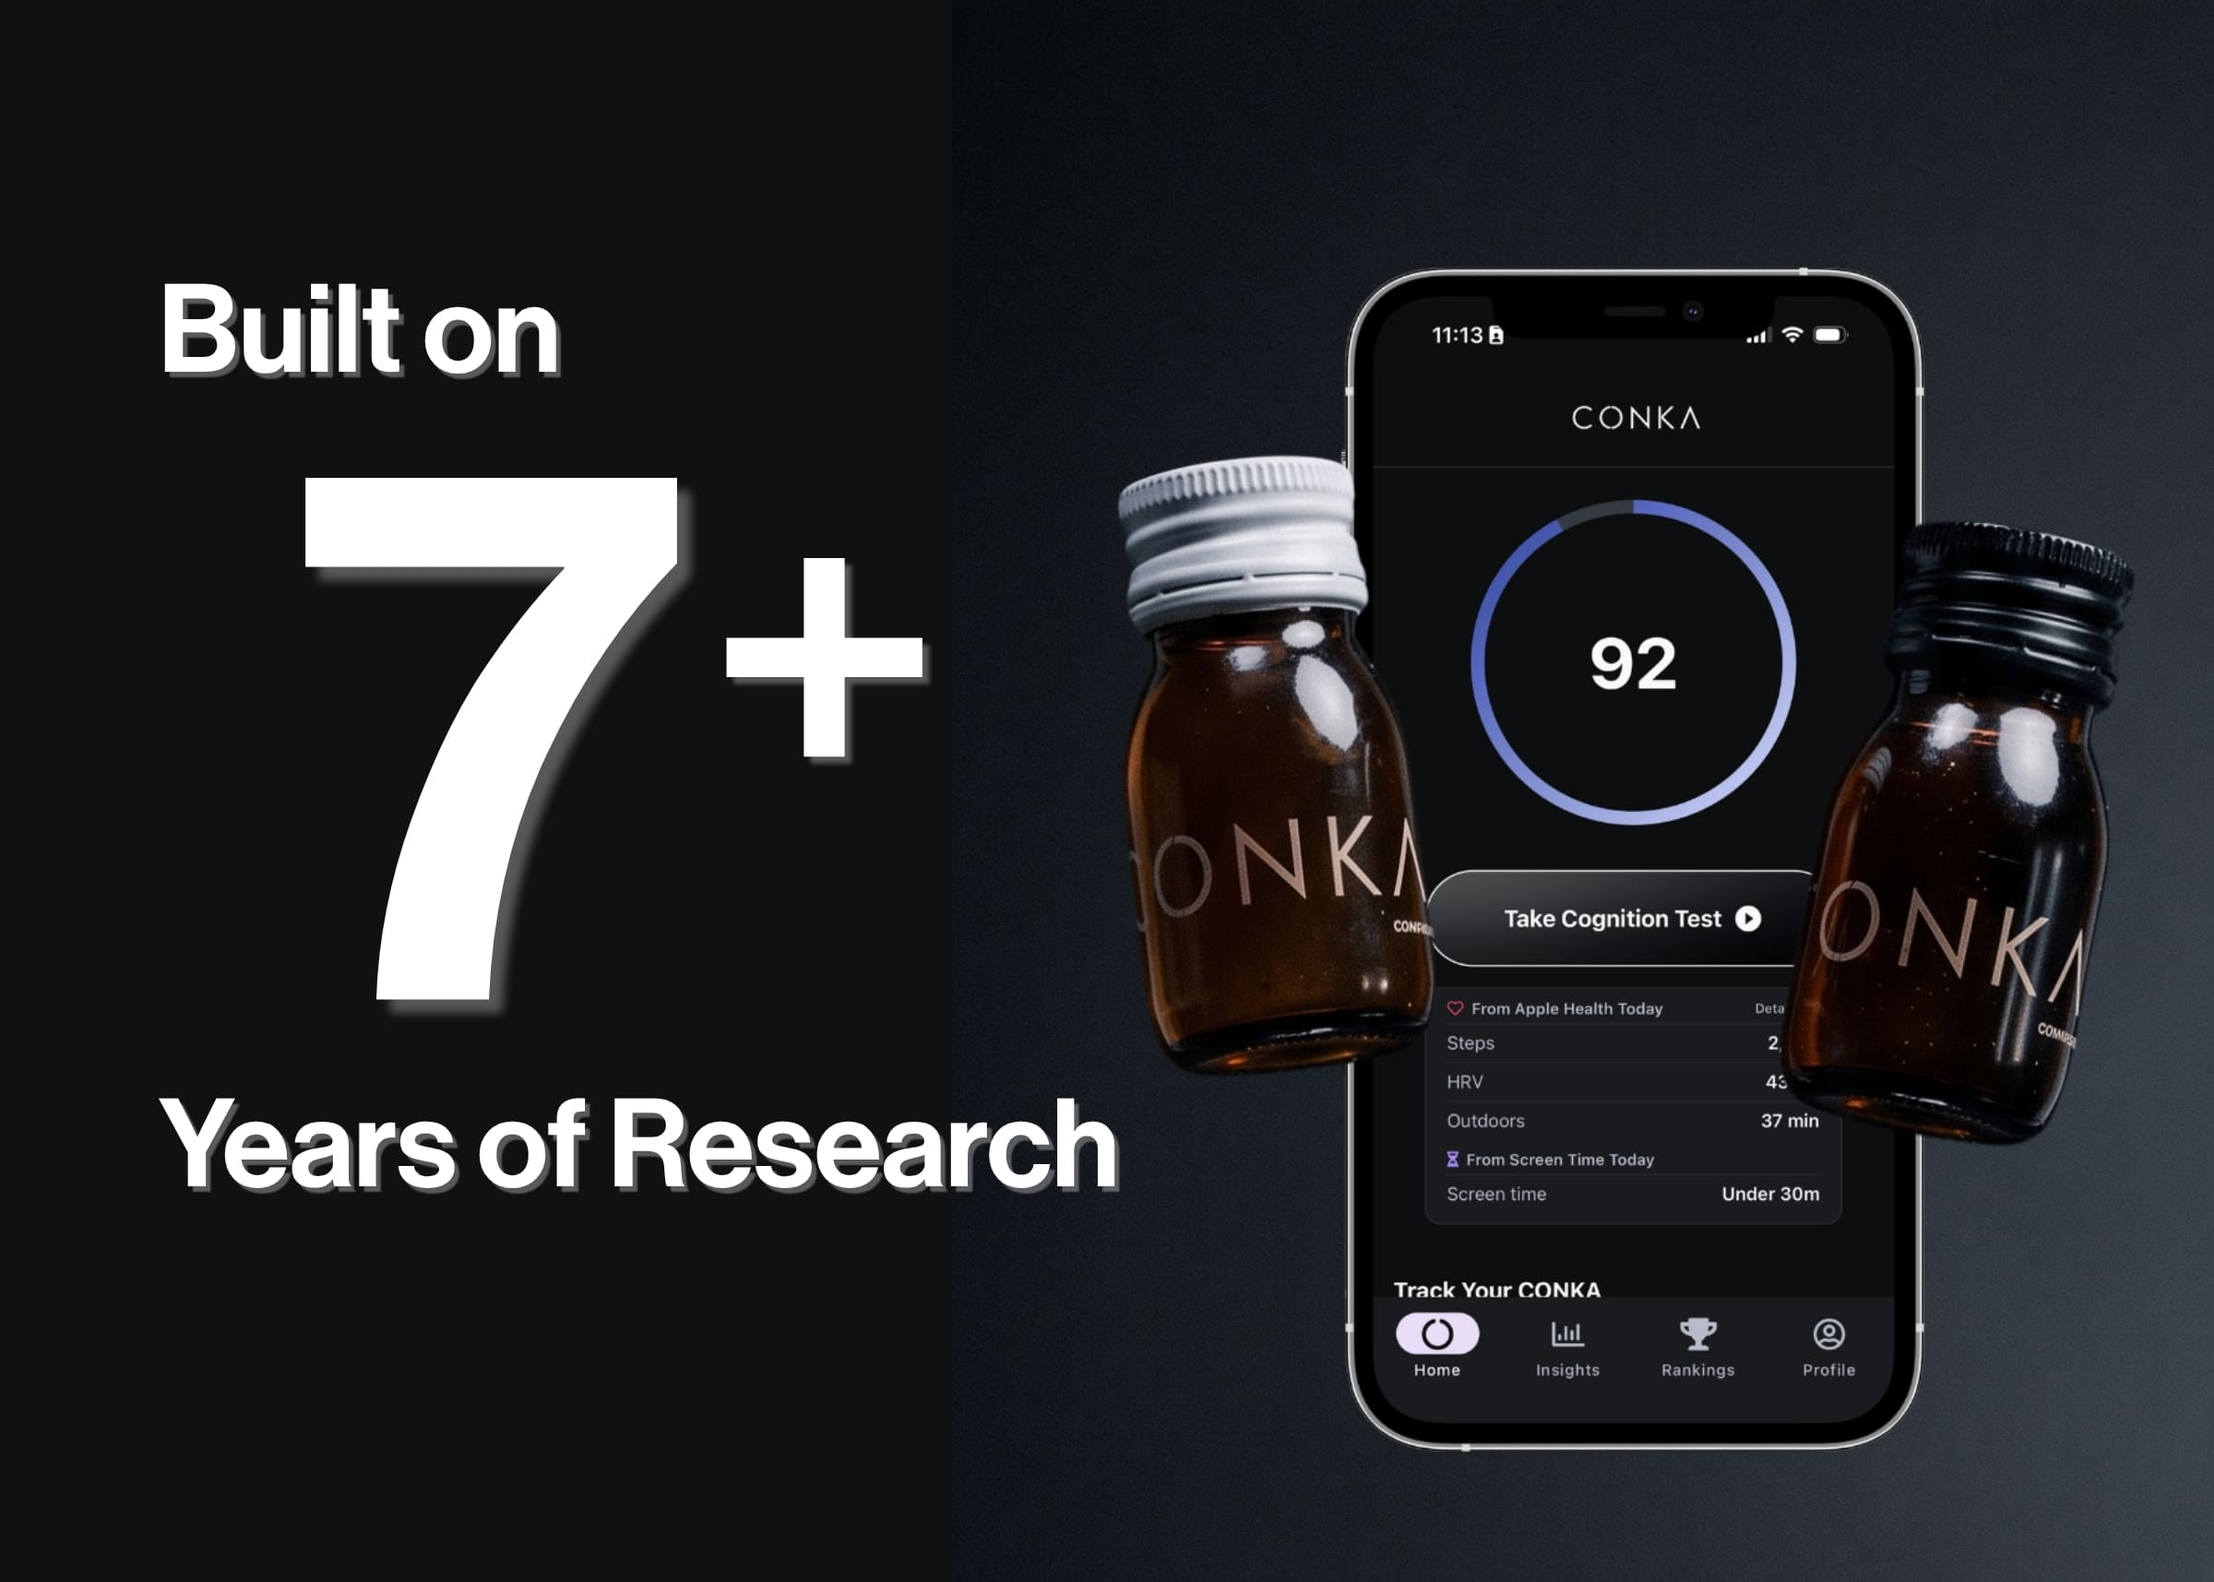
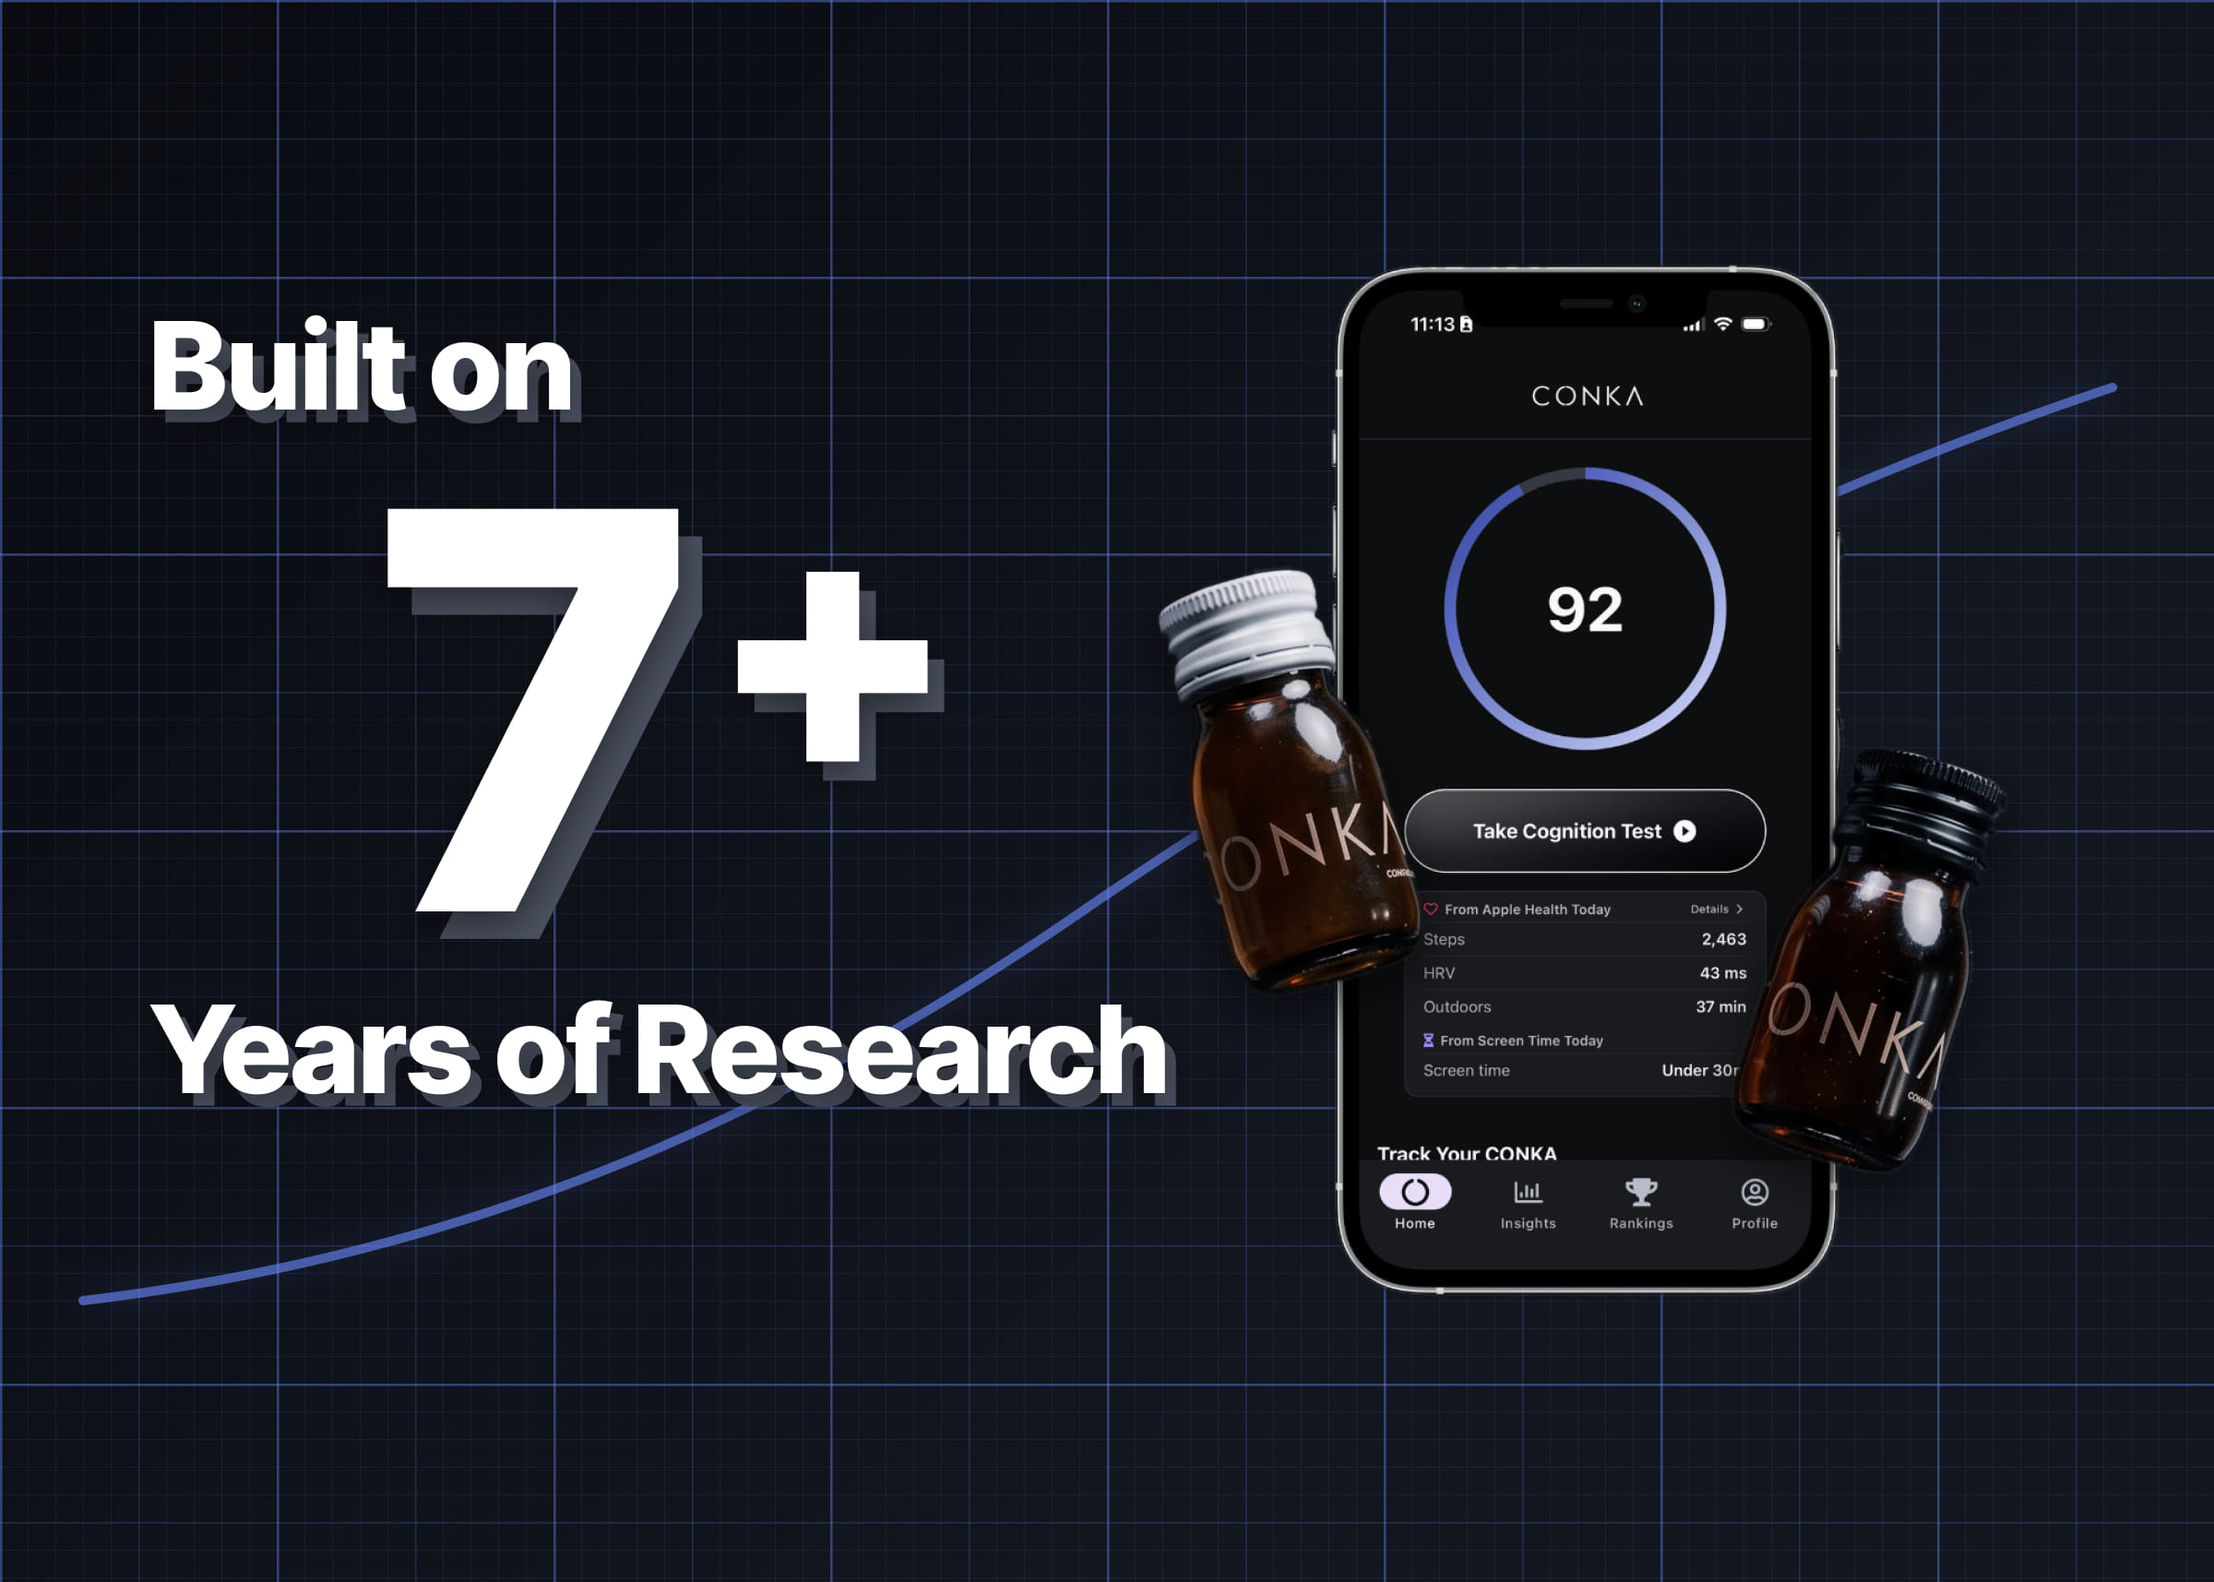
feat: regenerate PDP statics from Figma, add Clear and Both starter packs
Replaces five PDP gallery statics with new Figma artwork and fills in the
two products the starter pack never had.

Assets, all exported at 2400x1715 to match the rest of mmPdpAssets and
encoded with mozjpeg at q80 / 4:4:4 (the grid and the price chips are
high-frequency detail that chroma subsampling smears):

- RiskFreeTrial.jpg / ClearRiskFree.jpg: new 28-box shots carrying the
  100 day guarantee
- SevenYearsResearch.jpg: rebuilt from the Nike deck assets, on a graph
  paper grid with a rising trajectory
- Flow{,Quarterly}StarterPack.jpg: relabelled, and now full resolution
  rather than the 1200x857 originals
- Clear/Both {,Quarterly}StarterPack.jpg: new, same callout system

Wiring:

- offerData: starterPackImage on the clear and both subscription
  cadences, so the PDP starter-kit section lights up on all three
  products rather than Flow alone
- mmPdpData: "02" and "03" now lead with their pack shot the way "01"
  already did, which is also what getPdpGalleryImages needs in slot 0
- StarterPackContents: the shots row was hardcoded to "CONKA Flow", so
  it takes a productLabel prop; intrinsic size corrected to the real
  2400x1715

Every figure on the new pack artwork was checked against offerData:
Both is 16 free shots at GBP 47.99 monthly and 20 at GBP 59.99
quarterly, against GBP 129.97 -> 74.99 and GBP 389.91 -> 149.99.

Claude-Session: https://claude.ai/code/session_01L8AF38X8qiPyPR3Vpp7w55

diff --git a/app/components/product/StarterPackContents.tsx b/app/components/product/StarterPackContents.tsx
@@ -3,18 +3,18 @@ import { formatPrice } from "@/app/lib/productData";
 import type { CadencePricing } from "@/app/lib/cadenceData";
 
 /**
- * StarterPackContents — the full-width starter-pack section on the Flow PDP
- * (SCRUM-1287, plan Phase 4).
+ * StarterPackContents — the full-width starter-pack section on the Flow, Clear
+ * and Both PDPs (SCRUM-1287, plan Phase 4).
  *
  * The buy panel already carries GiftValueStack, a compact tile grid. This is the
  * unpack: the arranged pack shot with the contents priced beside it, so a first
  * order reads as a kit rather than a carton. Both surfaces derive from the same
  * CadencePricing fields, so their figures cannot drift apart.
  *
- * Cadence-aware. `starterPackImage` is set on the two Flow subscription cadences
- * only, so it doubles as the visibility switch: the page renders no section at
- * all when the selected cadence has no pack. The monthly and quarterly shots are
- * the same dimensions, so switching cadence swaps the image with no layout shift.
+ * Cadence-aware. `starterPackImage` is set on the subscription cadences only, so
+ * it doubles as the visibility switch: the page renders no section at all when
+ * the selected cadence has no pack. Every pack shot is the same dimensions, so
+ * switching cadence or formula swaps the image with no layout shift.
  *
  * Every price here is display-only and pre-add. The cart and the checkout still
  * price from Shopify alone (CART_PRICING_SOURCE_OF_TRUTH.md).
@@ -35,14 +35,14 @@ type PackRow = {
   paidPrice?: number;
 };
 
-function getPackRows(pricing: CadencePricing): PackRow[] {
+function getPackRows(pricing: CadencePricing, productLabel: string): PackRow[] {
   const freeShots = pricing.freeShots ?? 0;
   const freeShotsValue = pricing.freeShotsValue ?? 0;
 
   return [
     {
-      id: "flow",
-      label: `CONKA Flow, ${pricing.shotCount} shots`,
+      id: "shots",
+      label: `${productLabel}, ${pricing.shotCount} shots`,
       rrp: pricing.compareAtPrice ?? pricing.price,
       paidPrice: pricing.price,
     },
@@ -87,12 +87,15 @@ function Tick() {
 
 export default function StarterPackContents({
   pricing,
+  productLabel,
 }: {
   pricing: CadencePricing;
+  /** What the shots row is called, e.g. "CONKA Flow" or "CONKA Flow + Clear". */
+  productLabel: string;
 }) {
   if (!pricing.starterPackImage) return null;
 
-  const rows = getPackRows(pricing);
+  const rows = getPackRows(pricing, productLabel);
   const totalValue = rows.reduce((sum, row) => sum + row.rrp, 0);
 
   return (
@@ -115,8 +118,8 @@ export default function StarterPackContents({
           alt={`Everything in the starter kit: ${rows
             .map((row) => row.label)
             .join(", ")}`}
-          width={1200}
-          height={857}
+          width={2400}
+          height={1715}
           className="h-auto w-full rounded-lg"
           sizes="(min-width: 1024px) 50vw, 100vw"
         />

diff --git a/app/lib/mmPdpData.ts b/app/lib/mmPdpData.ts
@@ -19,7 +19,8 @@ const ASSET_BASE = "/formulas/mmPdpAssets";
 export const MM_GALLERY_ASSETS: Record<ProductHeroId, string[]> = {
   "01": [
     // Starter pack bundle shot leads: the whole offer (box, shots, hat, travel
-    // pack, app) is visible before any copy is read. SCRUM-1282.
+    // pack, app) is visible before any copy is read. SCRUM-1282. All three
+    // formulas lead this way, each with its own pack artwork.
     // Lives under starterPack/ rather than ASSET_BASE so the hero, the PDP
     // starter-pack section and ByoGallery all request one URL and share its
     // optimised variants. getPdpGalleryImages swaps this slide per cadence.
@@ -34,6 +35,7 @@ export const MM_GALLERY_ASSETS: Record<ProductHeroId, string[]> = {
     `${ASSET_BASE}/RiskFreeTrial.jpg`,
   ],
   "02": [
+    "/formulas/starterPack/ClearStarterPack.jpg",
     `${ASSET_BASE}/ClearMmHero.jpg`,
     `${ASSET_BASE}/ClearSharperMind.jpg`,
     `${ASSET_BASE}/ClearMmIngredients.jpg`,
@@ -44,6 +46,7 @@ export const MM_GALLERY_ASSETS: Record<ProductHeroId, string[]> = {
     `${ASSET_BASE}/ClearRiskFree.jpg`,
   ],
   "03": [
+    "/formulas/starterPack/BothStarterPack.jpg",
     `${ASSET_BASE}/BothMmHero.jpg`,
     `${ASSET_BASE}/BothSharperMind.jpg`,
     `${ASSET_BASE}/FlowMmIngredients.jpg`,
@@ -60,11 +63,12 @@ export const MM_GALLERY_ASSETS: Record<ProductHeroId, string[]> = {
  * Gallery slides for a PDP hero, with the lead slide following the selected
  * plan (SCRUM-1287).
  *
- * Flow's first slide is the starter-pack shot, and that artwork carries the
- * pack's prices and quantities. Left static it showed the monthly pack above a
- * quarterly price. Cadences that ship a pack expose `starterPackImage`, so the
- * lead slide is swapped for whichever pack the selected plan actually gets, and
- * the section further down the page reads the same field.
+ * Every formula's first slide is its starter-pack shot, and that artwork
+ * carries the pack's prices and quantities. Left static it showed the monthly
+ * pack above a quarterly price. Cadences that ship a pack expose
+ * `starterPackImage`, so the lead slide is swapped for whichever pack the
+ * selected plan actually gets, and the section further down the page reads the
+ * same field.
  *
  * Cadences with no pack keep the array as authored.
  */

diff --git a/app/lib/offerData.ts b/app/lib/offerData.ts
@@ -287,6 +287,7 @@ const OFFER_PRICING: Record<OfferProduct, Record<OfferCadence, OfferPricing>> = 
       subsequentShots: 40,
       freeShotsValue: 47.99,
       gifts: STARTER_PACK_GIFTS,
+      starterPackImage: "/formulas/starterPack/BothStarterPack.jpg",
     },
     "monthly-otp": {
       price: OTP_PRICE.both,
@@ -309,6 +310,7 @@ const OFFER_PRICING: Record<OfferProduct, Record<OfferCadence, OfferPricing>> = 
       subsequentShots: 140,
       freeShotsValue: 59.99,
       gifts: STARTER_PACK_GIFTS,
+      starterPackImage: "/formulas/starterPack/BothQuarterlyStarterPack.jpg",
     },
     "quarterly-otp": {
       // + postage = the £279.99 BOTH-120 charges. Same £2.25/shot as monthly one-time.
@@ -381,6 +383,7 @@ const OFFER_PRICING: Record<OfferProduct, Record<OfferCadence, OfferPricing>> = 
       subsequentShots: 20,
       freeShotsValue: 23.99,
       gifts: STARTER_PACK_GIFTS,
+      starterPackImage: "/formulas/starterPack/ClearStarterPack.jpg",
     },
     "monthly-otp": {
       price: OTP_PRICE.clear,
@@ -401,6 +404,7 @@ const OFFER_PRICING: Record<OfferProduct, Record<OfferCadence, OfferPricing>> = 
       subsequentShots: 80,
       freeShotsValue: 59.99,
       gifts: STARTER_PACK_GIFTS,
+      starterPackImage: "/formulas/starterPack/ClearQuarterlyStarterPack.jpg",
     },
     "quarterly-otp": {
       // + postage = the £189.99 CLEAR-60 charges. Same £3.00/shot as monthly one-time.

diff --git a/app/conka-both/page.tsx b/app/conka-both/page.tsx
@@ -118,7 +118,10 @@ export default function ConkaBothPage() {
       ariaLabel="What is in the starter pack"
     >
       <div className="brand-track">
-        <StarterPackContents pricing={cadencePricing} />
+        <StarterPackContents
+          pricing={cadencePricing}
+          productLabel="CONKA Flow + Clear"
+        />
       </div>
     </PdpSection>
   ) : null;

diff --git a/app/conka-clarity/page.tsx b/app/conka-clarity/page.tsx
@@ -112,7 +112,10 @@ export default function ConkaClarityPage() {
       ariaLabel="What is in the starter pack"
     >
       <div className="brand-track">
-        <StarterPackContents pricing={cadencePricing} />
+        <StarterPackContents
+          pricing={cadencePricing}
+          productLabel="CONKA Clear"
+        />
       </div>
     </PdpSection>
   ) : null;

diff --git a/app/conka-flow/page.tsx b/app/conka-flow/page.tsx
@@ -109,7 +109,10 @@ export default function ConkaFlowPage() {
       ariaLabel="What is in the starter pack"
     >
       <div className="brand-track">
-        <StarterPackContents pricing={cadencePricing} />
+        <StarterPackContents
+          pricing={cadencePricing}
+          productLabel="CONKA Flow"
+        />
       </div>
     </PdpSection>
   ) : null;

diff --git a/docs/product/PRODUCT_DATA.md b/docs/product/PRODUCT_DATA.md
@@ -158,15 +158,15 @@ Shot counts are **priced** shots. Monthly subs ship a bonus box on the first ord
 
 `OfferPricing.gifts` is an optional `OfferGift[]` listing the free extras that come with a first order. It drives the `GiftValueStack` struck-RRP rows on the PDP buy panel and is **display only**: these RRPs never reach a cart line or the checkout, per [CART_PRICING_SOURCE_OF_TRUTH.md](../development/CART_PRICING_SOURCE_OF_TRUTH.md).
 
-Set on `flow["monthly-sub"]` and `flow["quarterly-sub"]`. Presence of `gifts` is what gates the stack, so adding it to another cadence is all that is needed to extend the offer.
+Set on the `monthly-sub` and `quarterly-sub` cadences of all three products (`flow`, `clear`, `both`). Presence of `gifts` is what gates the stack, so adding it to another cadence is all that is needed to extend the offer.
 
 The free bonus shots are deliberately **not** in this array; that row derives from `freeShots` / `freeShotsValue` so the shot count has one source. Rows without an `image` fall back to a tick glyph.
 
 ### Starter pack shot (`starterPackImage`)
 
-`OfferPricing.starterPackImage` is the arranged pack photograph for the full-width `StarterPackContents` section on the Flow PDP. One per cadence, because the monthly and quarterly packs hold different quantities.
+`OfferPricing.starterPackImage` is the arranged pack photograph for the full-width `StarterPackContents` section on the Flow, Clear and Both PDPs. One per product per cadence, because each pack holds different quantities and the artwork carries burned-in prices. It is also the lead gallery slide in `MM_GALLERY_ASSETS`, swapped per cadence by `getPdpGalleryImages`.
 
-It doubles as that section's visibility switch: absent means the cadence ships no starter pack, and `app/conka-flow/page.tsx` renders no section wrapper at all rather than an empty one. Set on the same two Flow subscription cadences as `gifts`.
+It doubles as that section's visibility switch: absent means the cadence ships no starter pack, and the PDP renders no section wrapper at all rather than an empty one. Set on the same six subscription cadences as `gifts`. The section's shots row is named by the page's `productLabel` prop, not derived from the pricing object.
 
 The section derives every figure from `price`, `compareAtPrice`, `freeShots`, `freeShotsValue` and `gifts`, the same fields the buy panel reads, so the two surfaces cannot show different numbers.
 

diff --git a/docs/CHANGELOG.md b/docs/CHANGELOG.md
@@ -5,6 +5,7 @@
 ---
 
 <!-- changelog:newest - new entries are inserted directly below this line, newest first, one line each -->
+- **2026-08-28** | Regenerated the PDP gallery statics from Figma at 2400x1715 (100-day guarantee shots, the 7+ years of research slide, both Flow starter packs) and added the missing Clear and Both starter packs, so all three PDPs now lead with their own pack shot and show the starter-kit section on every subscription cadence
 - **2026-08-28** | Flow PDP gains a full-width starter-pack section that swaps its pack shot and prices between the monthly and quarterly cadences (SCRUM-1287)
 - **2026-08-28** | Flow PDP leads with the starter pack bundle shot and shows a struck-RRP value stack of the free extras (hat, travel pack, bonus shots, app access) on subscription cadences.
 - **2026-08-28** | The buy-once link is back to one clean line: single all-in price with the struck anchor, no printed save percentage and no postage itemisation (postage stays baked in; the formal Shopify shipping split is tracked as SCRUM-1286 in docs/TODO.md). All discount maths now compares all-in totals, so strike, price and badge always agree.
